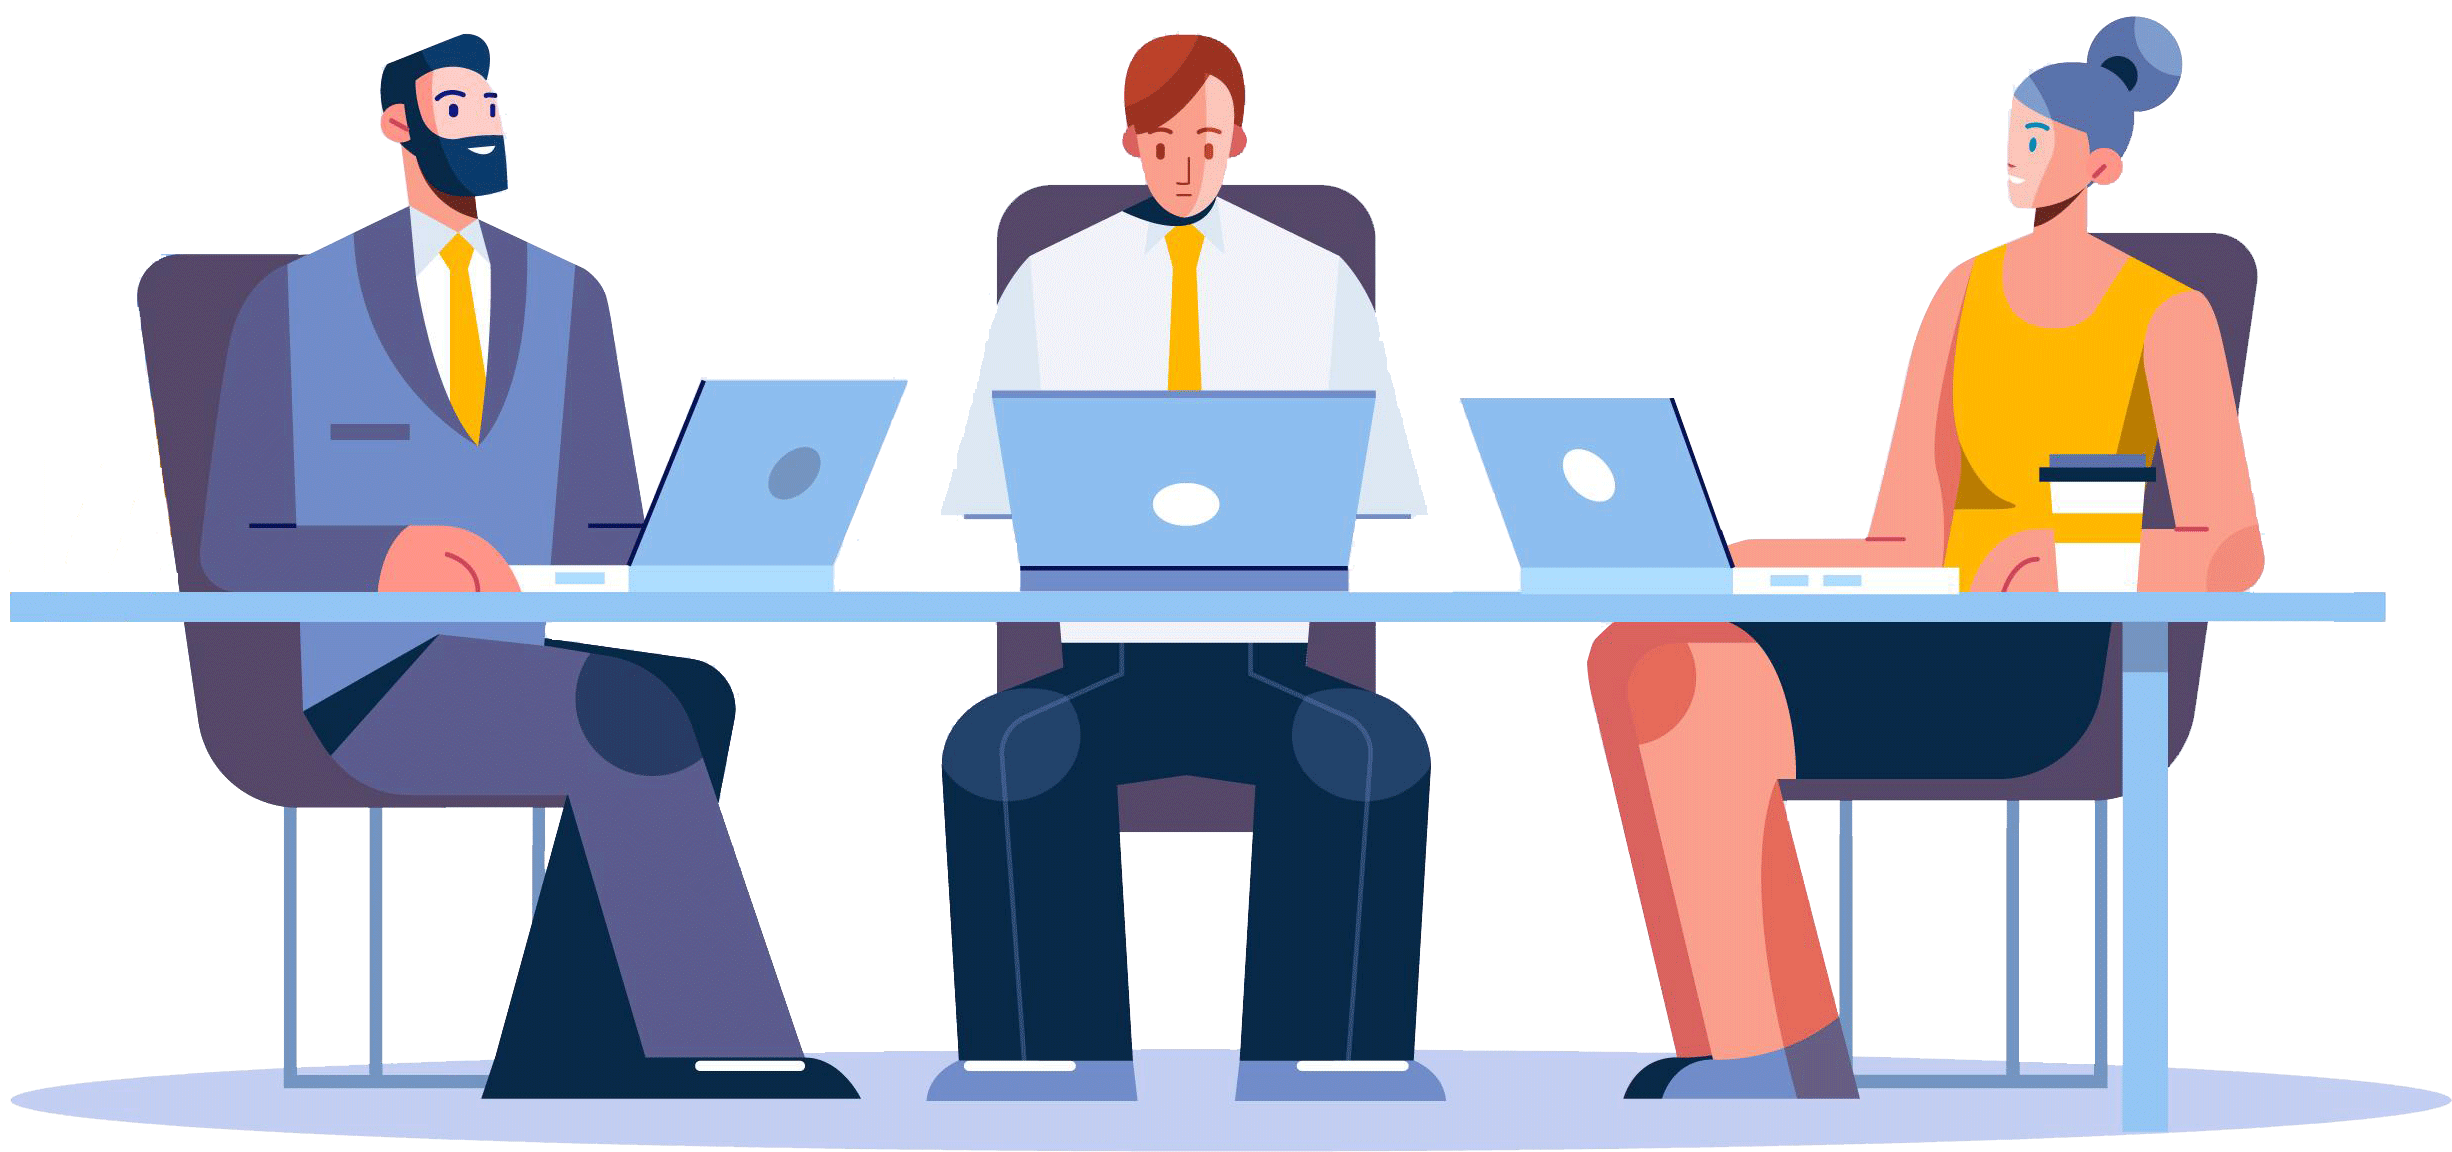
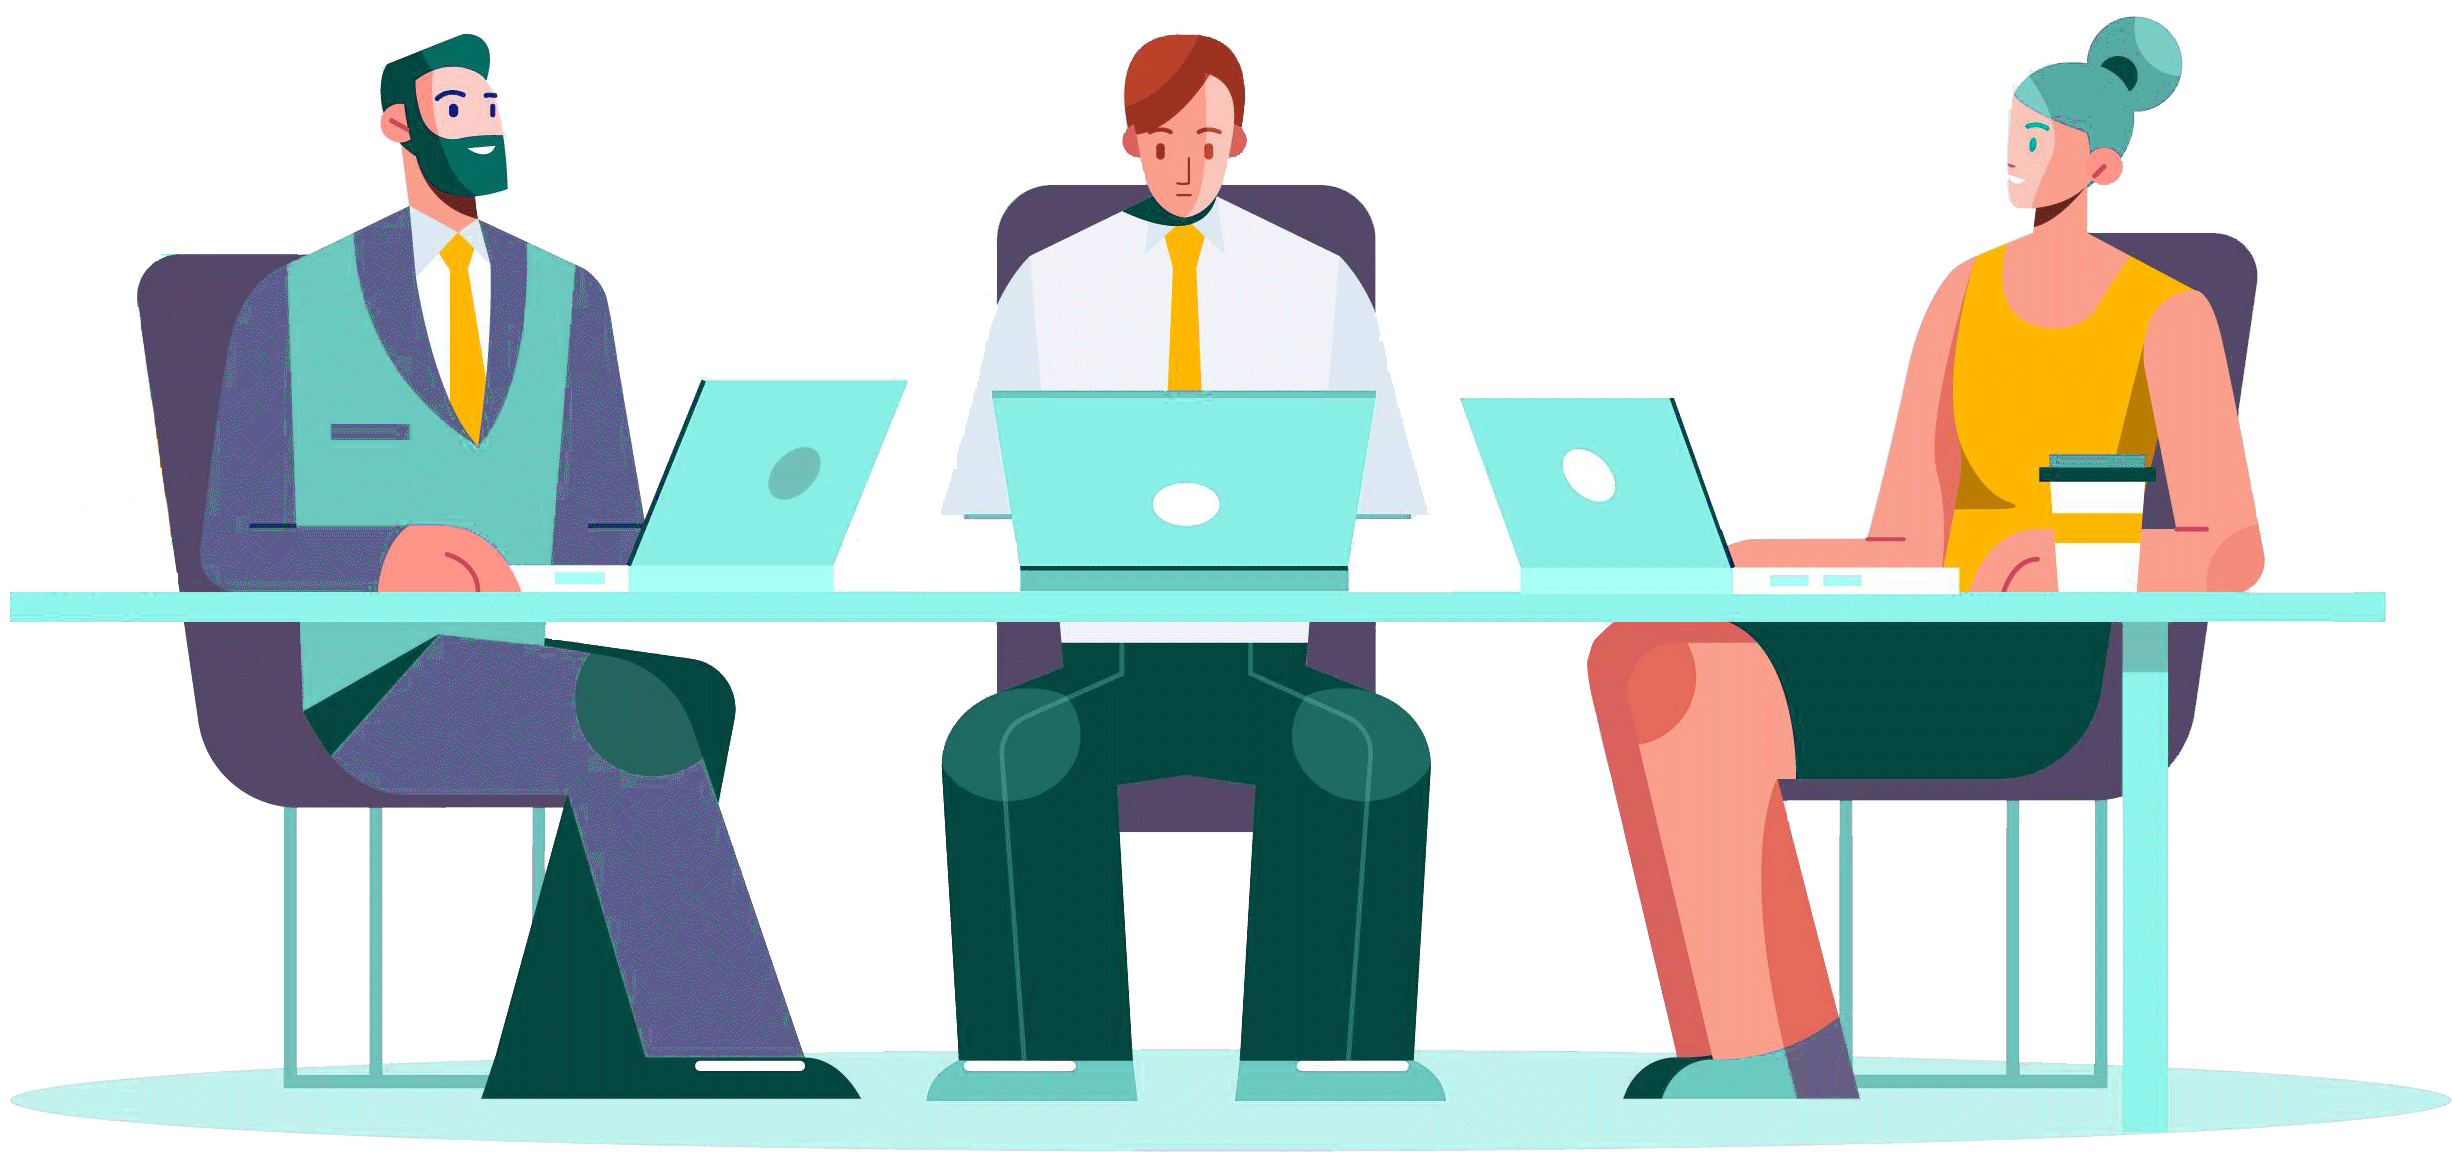
Harmonisation chromatique de l'illustration login-img.png vers les teintes CRT Cyan (#00A8B5) et Vert Émeraude

diff --git a/scratch/recolor_login_img.py b/scratch/recolor_login_img.py
@@ -1,0 +1,40 @@
+from PIL import Image
+import colorsys
+
+# Open original image
+img_path = '/home/gervais/Development/gemini_workspace/gemini_project/crt_ui/mockup/login-img.png'
+img = Image.open(img_path).convert('RGBA')
+
+pixels = img.load()
+width, height = img.size
+
+# Target CRT Cyan Hue is around 175-182 degrees => HSV Hue ~ 0.48 - 0.50
+# Original Blue Hues are around 195-215 degrees => HSV Hue ~ 0.54 - 0.60
+
+for y in range(height):
+    for x in range(width):
+        r, g, b, a = pixels[x, y]
+        if a == 0:
+            continue
+        
+        # Convert RGB to HSV
+        r_n, g_n, b_n = r / 255.0, g / 255.0, b / 255.0
+        h, s, v = colorsys.rgb_to_hsv(r_n, g_n, b_n)
+        
+        # Target blue/light-blue range (H between 0.51 and 0.65)
+        if 0.50 <= h <= 0.65 and s > 0.15:
+            # Shift hue to CRT Cyan / Teal-Green (0.485)
+            new_h = 0.485
+            # Slightly boost saturation for rich CRT Teal-Green tone
+            new_s = min(1.0, s * 1.05)
+            new_r, new_g, new_b = colorsys.hsv_to_rgb(new_h, new_s, v)
+            pixels[x, y] = (int(new_r * 255), int(new_g * 255), int(new_b * 255), a)
+
+# Save output to root and laravel/public
+out_path_root = '/home/gervais/Development/gemini_workspace/gemini_project/crt_ui/login-img.png'
+out_path_laravel = '/home/gervais/Development/gemini_workspace/gemini_project/crt_ui/laravel/public/login-img.png'
+
+img.save(out_path_root, 'PNG')
+img.save(out_path_laravel, 'PNG')
+
+print("SUCCESS: login-img.png recolored with CRT Cyan / Teal-Green palette!")
